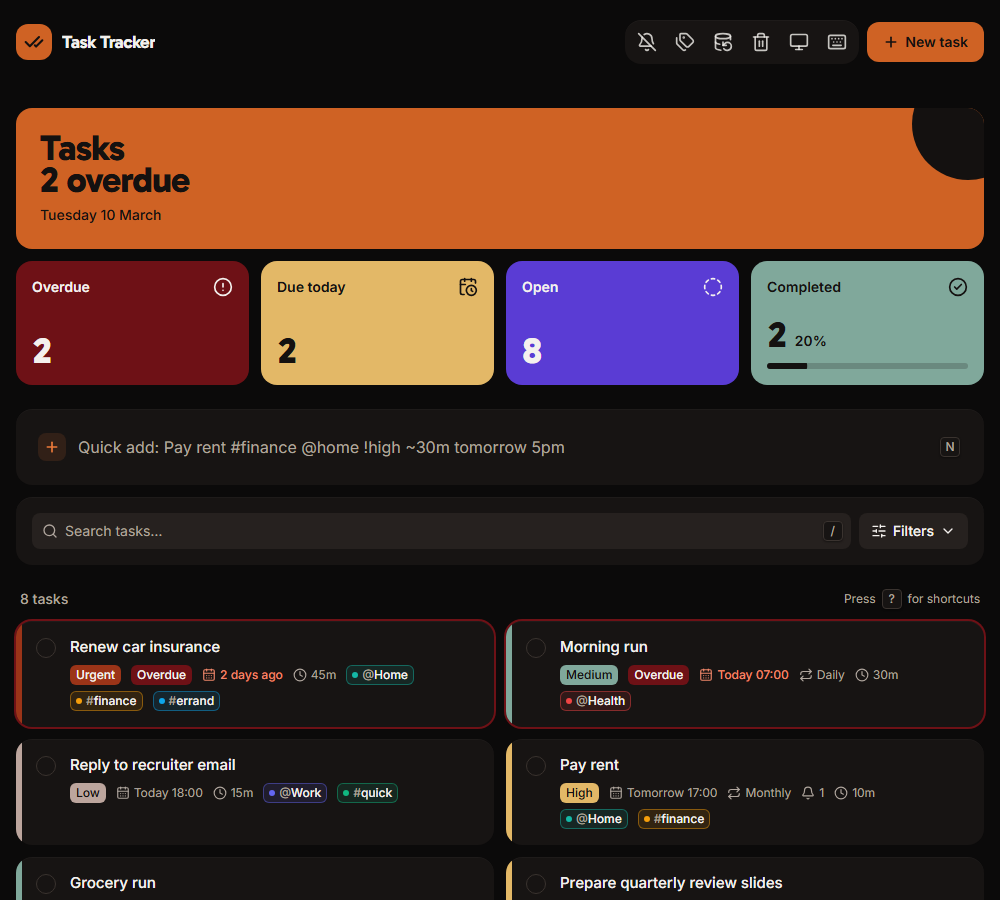
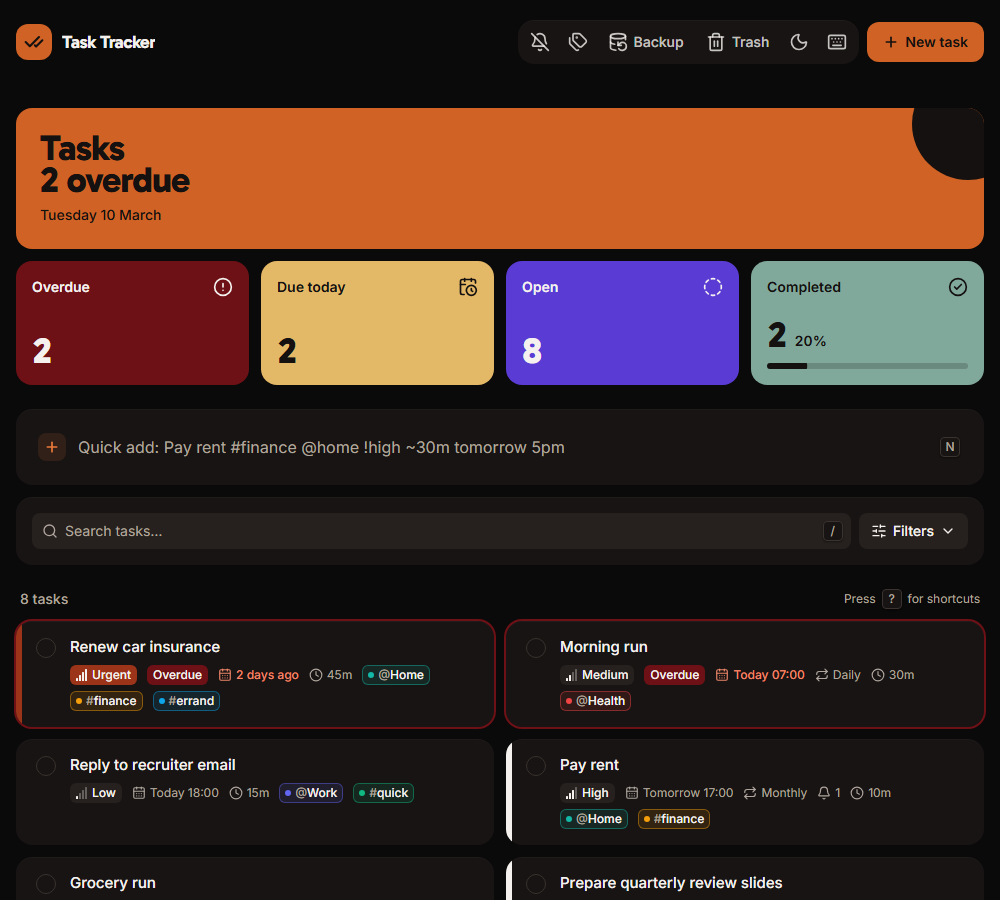
Update HANDOFF.md and README screenshots: #31 done (#31)

diff --git a/HANDOFF.md b/HANDOFF.md
@@ -1,6 +1,6 @@
 # Handoff: UI critique follow-ups
 
-Last updated 2026-11-24. Step 5 is done: polish pushed (`426f55f`), and the re-critique scored **28/40 (Good)**, up from 24/40. 0 P0, 2 P1 (icon-only header; the deadline in two date formats), 2 P2 (panel colours carry several meanings; the 13-field editor), 1 P3 (quick-add grammar help). The report is `.impeccable/critique/2026-11-21T17-02-11Z__src.md` (local only). The date-format P1 is fixed, reviewed and pushed as `63657c9` ([#29](https://github.com/TengkuAliff94/Task-Tracker/issues/29), closed, now a sub-issue of #19 as step 6). #27 records 28/40 and is closed. The other P1, the icon-only header, is fixed for [#30](https://github.com/TengkuAliff94/Task-Tracker/issues/30) (step 7). Still to do: pick the next follow-up.
+Last updated 2026-11-24 (step 8). Step 5 is done: polish pushed (`426f55f`), and the re-critique scored **28/40 (Good)**, up from 24/40. 0 P0, 2 P1 (icon-only header; the deadline in two date formats), 2 P2 (panel colours carry several meanings; the 13-field editor), 1 P3 (quick-add grammar help). The report is `.impeccable/critique/2026-11-21T17-02-11Z__src.md` (local only). The date-format P1 is fixed, reviewed and pushed as `63657c9` ([#29](https://github.com/TengkuAliff94/Task-Tracker/issues/29), closed, now a sub-issue of #19 as step 6). #27 records 28/40 and is closed. The other P1, the icon-only header, is fixed for [#30](https://github.com/TengkuAliff94/Task-Tracker/issues/30) (step 7, `af20632`, closed). The colour P2 is fixed for [#31](https://github.com/TengkuAliff94/Task-Tracker/issues/31) (step 8, `f0f26d5`, closed). Still to do: pick the next follow-up.
 
 **Branch:** `ui-revamp`. **Tracking issue:** [#19](https://github.com/TengkuAliff94/Task-Tracker/issues/19), with sub-issues #20–#27 (native GitHub sub-issues).
 
@@ -24,11 +24,12 @@ Each fix runs as one Impeccable command at a time. Run the step, verify it, comm
 | 4 | `/impeccable audit src`, then harden, adapt and clarify | [#26](https://github.com/TengkuAliff94/Task-Tracker/issues/26) WCAG 2.2 AA gaps | **done** (`391ccaf`, closed) |
 | 5 | `/impeccable polish src`, then `/impeccable critique src` | [#27](https://github.com/TengkuAliff94/Task-Tracker/issues/27) polish, README screenshots, SPEC alignment, re-score | **done**: 28/40 |
 | 6 | `/impeccable harden src/components/TaskForm.tsx` | [#29](https://github.com/TengkuAliff94/Task-Tracker/issues/29) re-critique P1: typed DD/MM/YYYY and 24-hour dates, picker behind a button | **done** (`63657c9`, closed) |
-| 7 | `/impeccable clarify` (header) | [#30](https://github.com/TengkuAliff94/Task-Tracker/issues/30) re-critique P1: header buttons named, theme menu, labelled More menu on phones | **done** |
+| 7 | `/impeccable clarify` (header) | [#30](https://github.com/TengkuAliff94/Task-Tracker/issues/30) re-critique P1: header buttons named, theme menu, labelled More menu on phones | **done** (`af20632`) |
+| 8 | `/impeccable colorize` | [#31](https://github.com/TengkuAliff94/Task-Tracker/issues/31) re-critique P2: colour has one job; priority as signal bars, ink toasts, neutral backup reminder | **done** (`f0f26d5`) |
 
 Each issue holds the full problem statement, file:line pointers and acceptance criteria. Read the issue before starting its step.
 
-**To resume:** pick the next re-critique follow-up: P2 colour meanings (`/impeccable colorize`); P2 the 13-field editor (`/impeccable distill`); P3 quick-add help (`/impeccable onboard`).
+**To resume:** pick the next re-critique follow-up: P2 the 13-field editor (`/impeccable distill`); P3 quick-add help (`/impeccable onboard`).
 
 **Re-critique P1 "deadline in two date formats": fixed** (2026-11-23/24, `/impeccable harden src/components/TaskForm.tsx`). Three agents reviewed it (correctness, WCAG, layout); it was committed for [#29](https://github.com/TengkuAliff94/Task-Tracker/issues/29) and pushed. See "Typed dates in brief" below.
 
@@ -62,8 +63,8 @@ Each issue holds the full problem statement, file:line pointers and acceptance c
 
 ```bash
 npx tsc -b                      # types
-npm test                        # unit (Vitest): 179 passing after #29
-npm run test:e2e                # e2e (Playwright, port 4173): 196 passing after #29
+npm test                        # unit (Vitest): 179 passing after #31
+npm run test:e2e                # e2e (Playwright, port 4173): 211 passing after #31
 npm run build                   # production build + PWA
 "<impeccable skill dir>/scripts/impeccable" detect --json --changed   # skill dir: the impeccable plugin (v4.9.2) in the Claude plugin cache
 "<impeccable skill dir>/scripts/impeccable" doctor
@@ -112,6 +113,12 @@ npm run build                   # production build + PWA
 - **Popovers take Esc.** The blocked-notifications popover (`popover="auto"`) closes on Esc, and `useShortcuts` stands aside while any `:popover-open` exists. Fake the blocked state with `Object.defineProperty(Notification, 'permission', { get: () => 'denied' })` in `addInitScript`.
 - **The page heading is a focus target.** `#page-heading` (`tabIndex=-1`) is the fallback when a focused toast goes and focus has nowhere better to return to.
 - **Mind `@` in GitHub text.** Quick-add syntax like `@home` pings real GitHub users in issue or PR text, so keep it in backticks.
+
+## Colour roles in brief (#31)
+
+Colour means time and state, one job per hue: maroon overdue, mustard due soon (plus the hover light), violet open, sage done (DESIGN.md, the One Job Rule). Priority is `PriorityGlyph` (four signal bars, `data-priority-glyph="<lit>"`) plus its word, styled through `PRIORITY_TONE` in `ui.ts` (`badge`, `pressed`, `stripe`); `PRIORITY_PANEL` is gone. Badges and priority group tabs are Well Stone, pressed priority pills and chips are ink, and only High (ink) and Urgent (rust) cards have a stripe (`data-priority-stripe`). Urgent alone keeps a hue. New `panel.ink` (`bg-fg text-bg`) and `INVERTED_PANEL.ink`; `INVERTED_PANEL.info` is gone. Toasts are ink. The backup reminder is a neutral `bg-surface` panel with an ink Back up now (an ink slab was too loud, and white in dark mode). Tests: `e2e/colour.spec.ts` (8, all failed on the old source); 179 unit and 211 e2e passing. README screenshots regenerated. Review: a self-review plus rendered checks at 390 and 1280 in both themes (no three-lens agent review).
+
+**Gotcha:** a pill's colour eases over 200ms, so read a pressed pill's background with `expect.poll`.
 
 ## Header in brief (#30)
 
